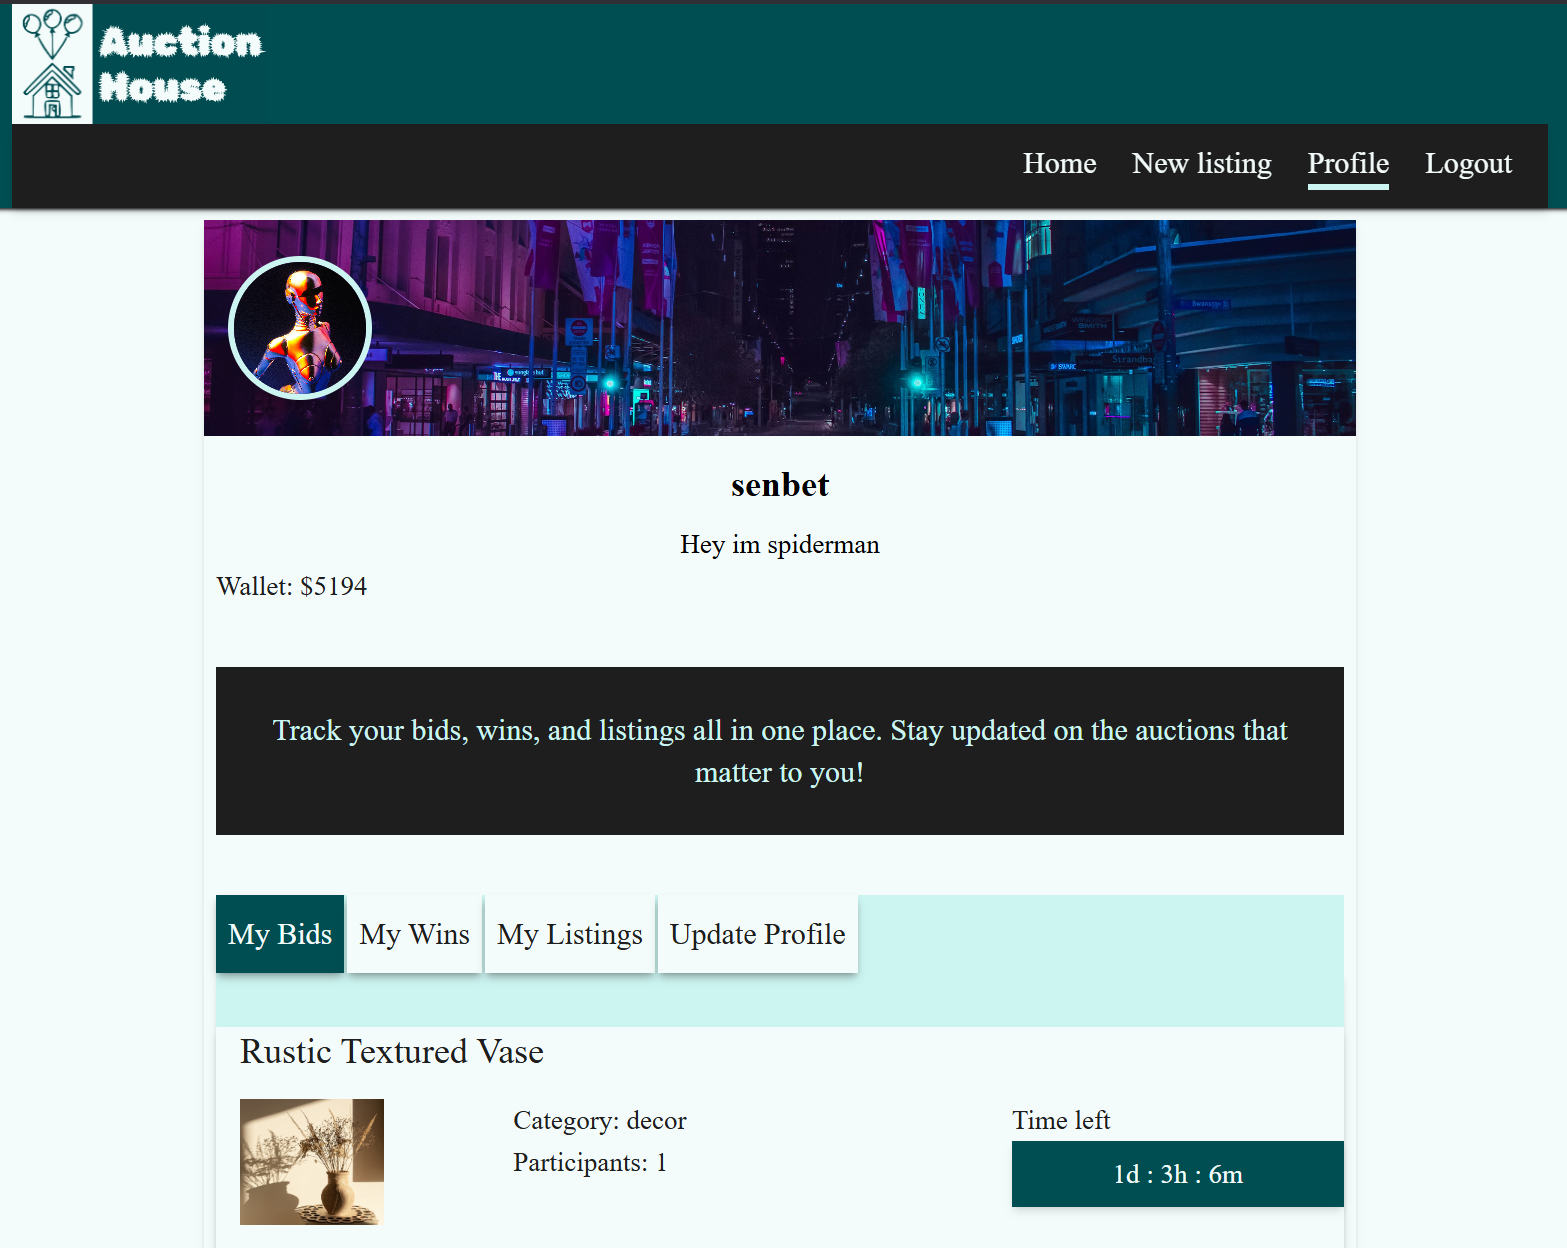
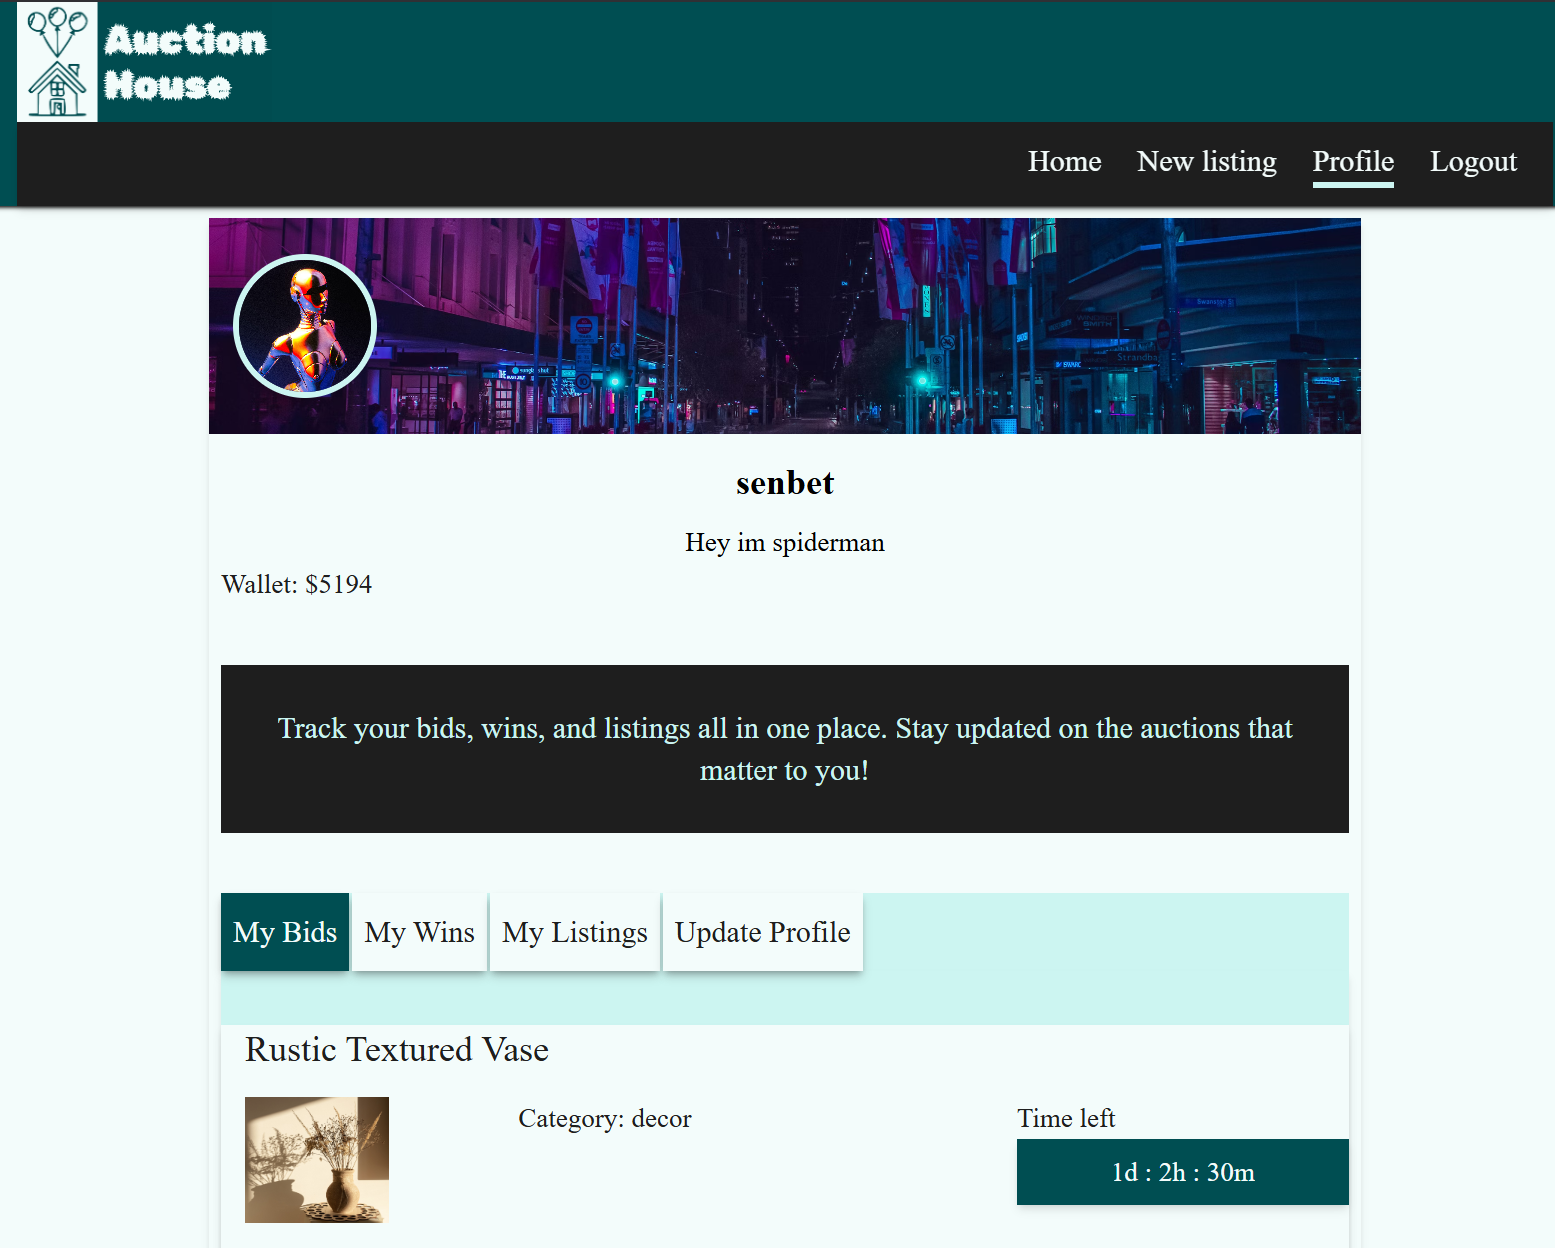
readme update

diff --git a/profile/index.html b/profile/index.html
@@ -151,7 +151,7 @@
             <div class="secondary-info flex items-center px-2">
               <p class="created-date mr-auto">N/A:</p>
               <a
-                class="item-action text-lg bg-secondary hover:bg-primary hover:text-background m-2 p-2 rounded-full shadow-text/40 shadow-sm ml-auto"
+                class="item-action text-lg bg-secondary hover:bg-primary hover:text-background m-2 py-1 px-2 rounded-full shadow-text/40 shadow-sm ml-auto"
                 href="item/"
                 >View Listing</a
               >
@@ -173,7 +173,6 @@
               </div>
               <div class="w-1/2 text-sm sm:text-lg">
                 <p class="bids-category">Category: N/A</p>
-                <p class="participants">Participants: 0</p>
               </div>
               <div class="w-1/3">
                 <p class="text-sm sm:text-lg">Time left</p>
@@ -193,7 +192,7 @@
               <div class="bid-time mx-2">Bid time:</div>
 
               <a
-                class="bids-action text-lg bg-secondary hover:bg-primary hover:text-background m-2 p-2 rounded-full shadow-text/40 shadow-sm ml-auto"
+                class="bids-action text-lg bg-secondary hover:bg-primary hover:text-background m-2 py-1 px-2 rounded-full shadow-text/40 shadow-sm ml-auto"
                 href="item/"
                 >View Listing</a
               >
@@ -228,7 +227,7 @@
             <div class="flex mx-4 items-center">
               <p class="win-time"></p>
               <a
-                class="wins-action text-lg bg-secondary hover:bg-primary hover:text-background m-2 p-2 rounded-full shadow-text/40 shadow-sm ml-auto"
+                class="wins-action text-lg bg-secondary hover:bg-primary hover:text-background m-2 py-1 px-2 rounded-full shadow-text/40 shadow-sm ml-auto"
                 href="item/"
                 >View Listing</a
               >
@@ -248,7 +247,6 @@
               </div>
               <div class="w-1/2 text-sm sm:text-lg">
                 <p class="bids-category bg-gray-300 h-4 w-3/4 rounded my-2"></p>
-                <p class="participants bg-gray-300 h-4 w-1/2 rounded"></p>
               </div>
               <div class="w-1/3">
                 <p class="text-sm sm:text-lg bg-gray-300 h-4 w-1/2 rounded"></p>
@@ -279,7 +277,6 @@
               </div>
               <div class="w-1/2 text-sm sm:text-lg">
                 <p class="bids-category bg-gray-300 h-4 w-3/4 rounded my-2"></p>
-                <p class="participants bg-gray-300 h-4 w-1/2 rounded"></p>
               </div>
               <div class="w-1/3">
                 <p class="text-sm sm:text-lg bg-gray-300 h-4 w-1/2 rounded"></p>
@@ -310,7 +307,6 @@
               </div>
               <div class="w-1/2 text-sm sm:text-lg">
                 <p class="bids-category bg-gray-300 h-4 w-3/4 rounded my-2"></p>
-                <p class="participants bg-gray-300 h-4 w-1/2 rounded"></p>
               </div>
               <div class="w-1/3">
                 <p class="text-sm sm:text-lg bg-gray-300 h-4 w-1/2 rounded"></p>
